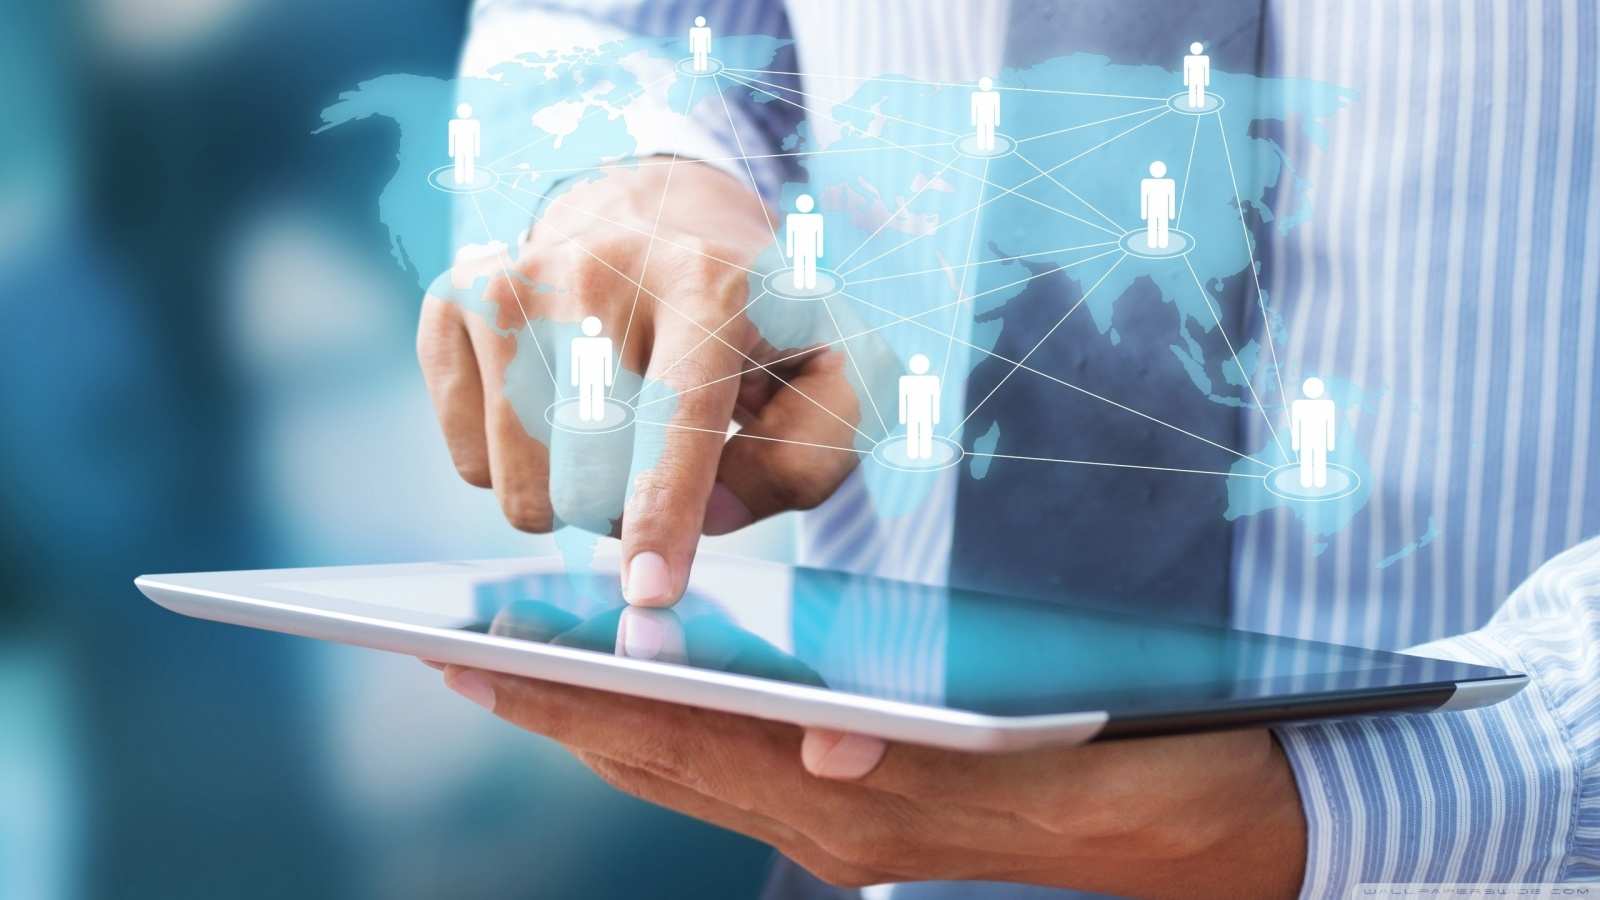
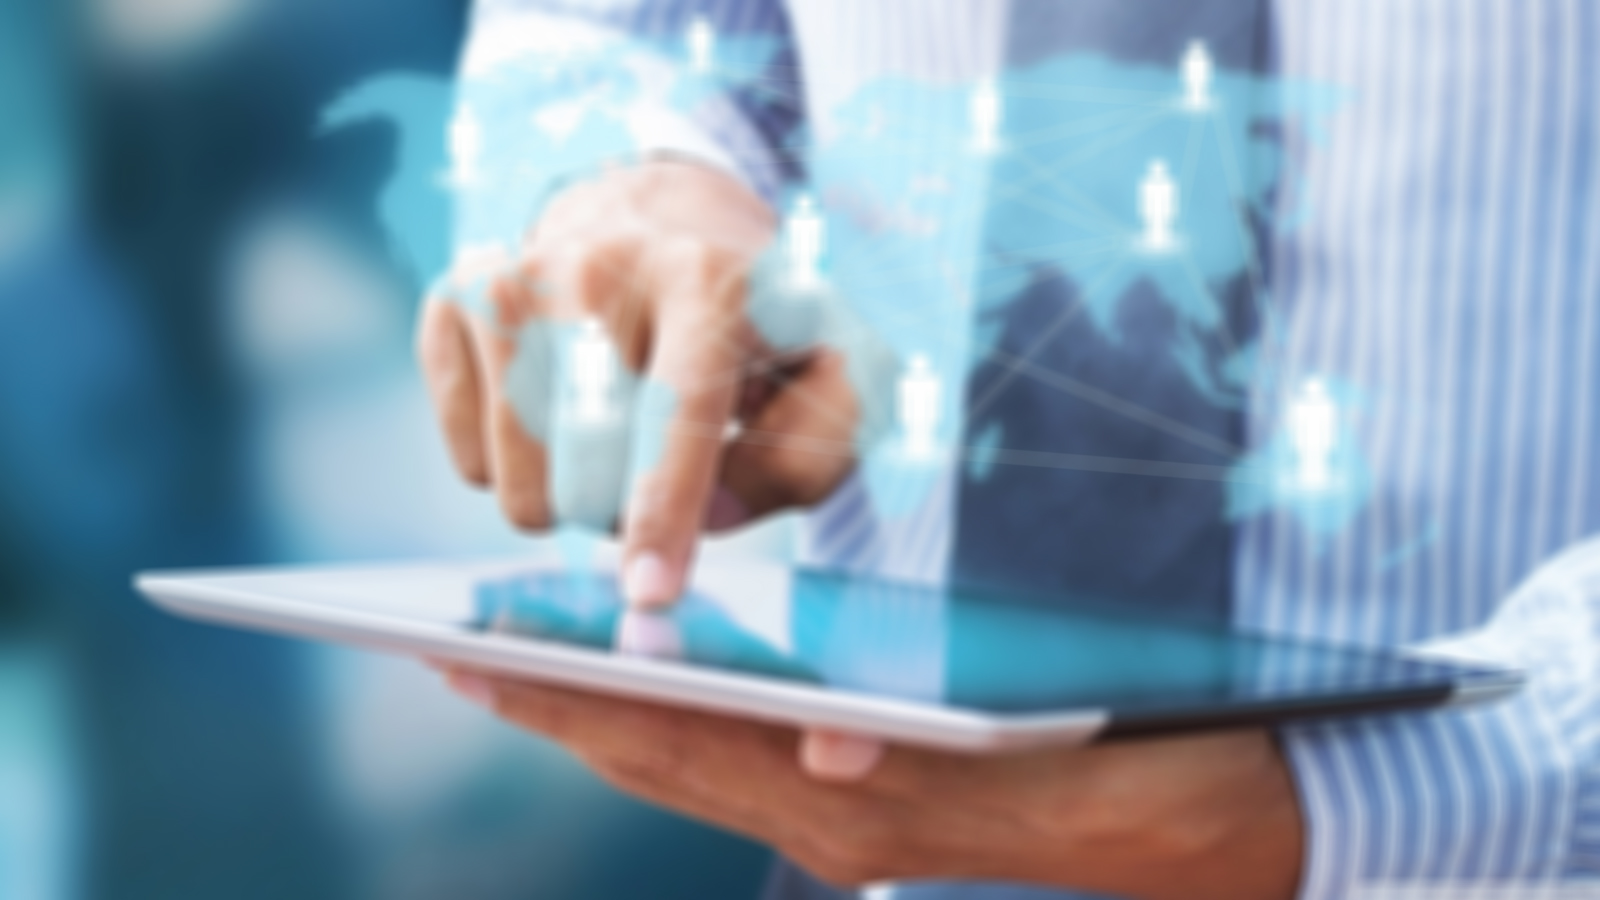
new commit
Change image

diff --git a/css/style.css b/css/style.css
@@ -147,7 +147,7 @@ li{
 	border-bottom: 4px solid #1abc9c;
 }
 .banner{
-	background: url("../images/banner.jpg") no-repeat;
+	background: url("../images/banner2.jpg") no-repeat;
 	padding-top: 125px;
 	padding-bottom: 233px;
 	margin-top: 76px; 
